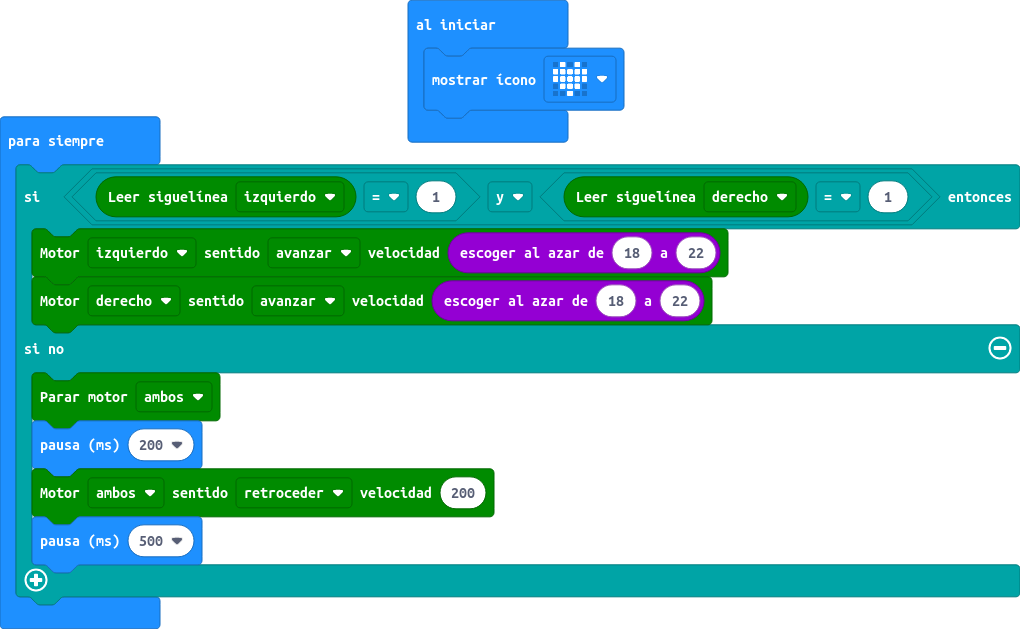
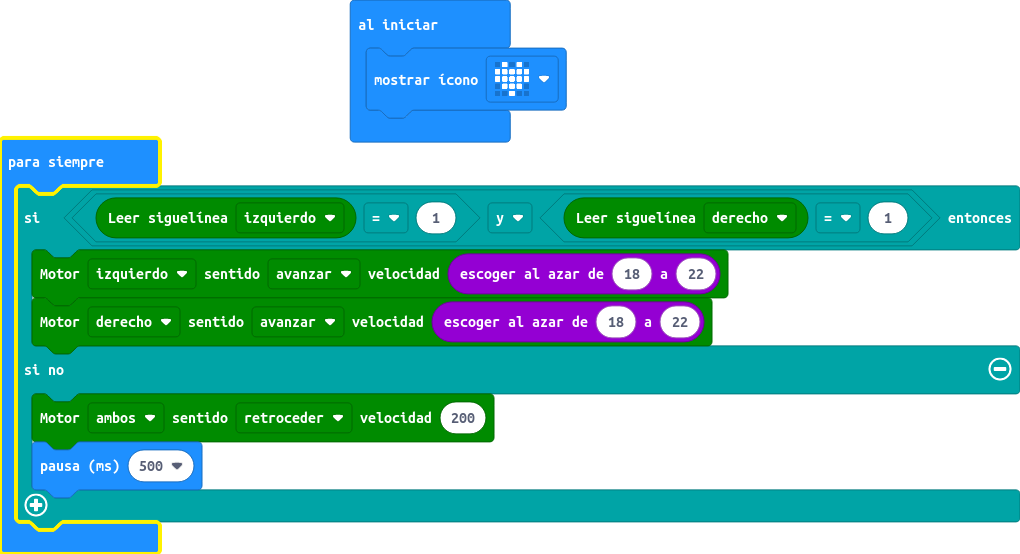
depurado tres

diff --git a/main.ts b/main.ts
@@ -4,8 +4,6 @@ basic.forever(function () {
         maqueen.motorRun(maqueen.Motors.M1, maqueen.Dir.CW, randint(18, 22))
         maqueen.motorRun(maqueen.Motors.M2, maqueen.Dir.CW, randint(18, 22))
     } else {
-        maqueen.motorStop(maqueen.Motors.All)
-        basic.pause(200)
         maqueen.motorRun(maqueen.Motors.All, maqueen.Dir.CCW, 200)
         basic.pause(500)
     }
